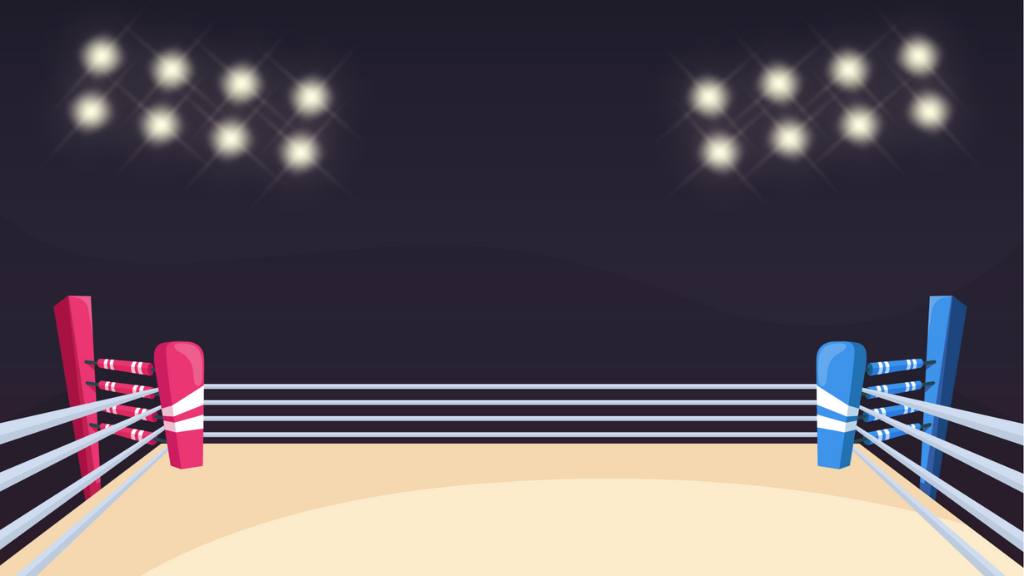
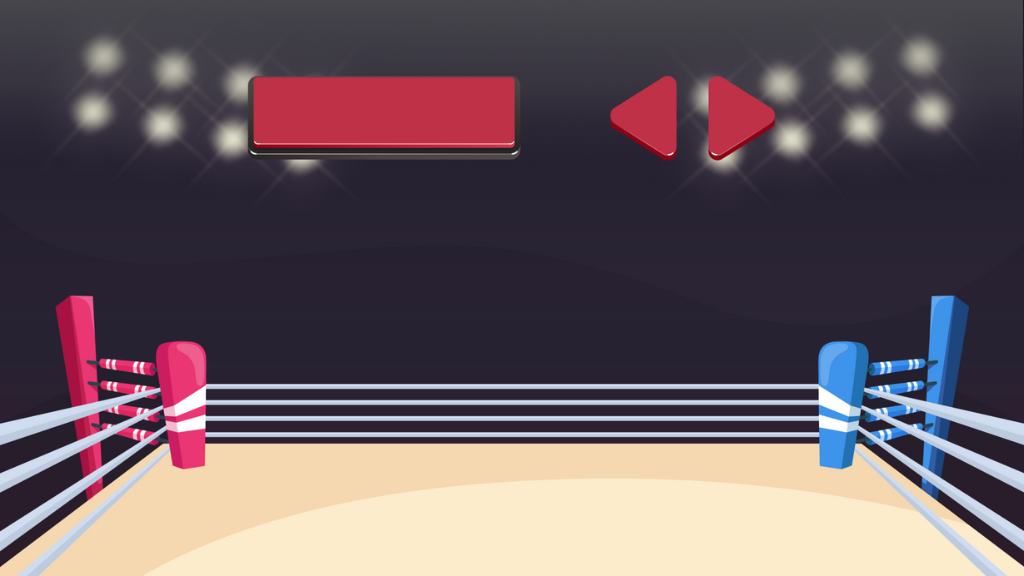
Fixes

diff --git a/website/index.js b/website/index.js
@@ -1,19 +1,38 @@
 //const canvas = document.querySelector('canvas')
 const canvas = document.createElement('canvas');
+let gameEnded = false;
+let gameInit = true;
+
+gsap.ticker.fps(60); // Set target frame rate to 60 FPS
 
 
-const playNowButton = document.querySelector('.play-now-2'); // Adjust if the class name for the button is different
-playNowButton.addEventListener('click', function() {
+let gameInfoElement = null;
+
+
+const playNowButton = document.querySelector('.play-now'); // Adjust if the class name for the button is different
+const gameReset = () => {
+
+    console.log(gameInit, gameEnded, player.health, enemy.health)
+
+    if (!gameInit && (!gameEnded && player.health > 0 && enemy.health > 0)) {
+        // Game is still in progress, do not reset
+        console.log("Game is still in progress, do not reset")
+        return;
+    }
+
     const playNowDiv = document.querySelector('.play-now'); // This is the container where the game will be displayed
     const gameInfo = document.querySelector('.gameInfo');
+
+    // Store a reference to the gameInfo element
+    if (!gameInfoElement) {
+        gameInfoElement = gameInfo.cloneNode(true);
+    }
 
     playNowDiv.innerHTML = ''; // Clear existing content
 
     // Show the game info (health bars and timer)
-    gameInfo.style.display = 'inline-block'; // Or "block", depending on your layout
-
-    playNowDiv.appendChild(gameInfo); // Add the canvas to the div
-
+    gameInfoElement.style.display = 'inline-block'; // Or "block", depending on your layout
+    playNowDiv.appendChild(gameInfoElement); // Add the gameInfo element back to the div
     playNowDiv.appendChild(canvas); // Add the canvas to the div
 
     // Call any initialization functions for your game here, if necessary
@@ -21,9 +40,33 @@ playNowButton.addEventListener('click', function() {
     canvas.width = 1024; // Set canvas width
     canvas.height = 576; // Set canvas height
 
+    // Reset player and enemy health
+    player.health = 100;
+    enemy.health = 100;
+    document.querySelector('#playerHealth').style.width = '100%';
+    document.querySelector('#enemyHealth').style.width = '100%';
+    document.querySelector('#displayText').style.display = 'none';
+
+    // Reset player and enemy state
+    player.dead = false;
+    enemy.dead = false;
+    player.isAttacking = false;
+    enemy.isAttacking = false;
+    player.framesCurrent = 0;
+    enemy.framesCurrent = 0;
+
+    // Reset player and enemy sprites to their idle state
+    player.switchSprite('run');
+    enemy.switchSprite('run');
+
+    // Reset player and enemy positions
+    player.position = { x: canvas.width / 4, y: 0 };
+    enemy.position = { x: 400, y: 100 };
 
     animate(); // Start the game animation or any initialization function
-});
+};
+
+playNowButton.addEventListener('click', gameReset);
 
 const c = canvas.getContext('2d')
 const startSound = new Audio('./static/audio/boxing_ring.wav');
@@ -32,6 +75,10 @@ const hitSounds = [
     new Audio('./static/audio/10.ogg'),
     new Audio('./static/audio/11.ogg')
 ];
+
+const playAgainImage = new Image();
+playAgainImage.src = './static/img/play-again.png';
+
 let currentHitSoundIndex = 0;
 
 canvas.width = 1024
@@ -96,7 +143,11 @@ const player = new Fighter({
             framesMax: 2
         },
         attack1: {
-            imageSrc: './static/img/zerto/Attack1.png',
+            imageSrc: './static/img/zerto/Uppercut.png',
+            framesMax: 6
+        },
+        attack2: {
+            imageSrc: './static/img/zerto/Attack2.png',
             framesMax: 4
         },
         takeHit: {
@@ -105,6 +156,10 @@ const player = new Fighter({
         },
         death: {
             imageSrc: './static/img/zerto/Death.png',
+            framesMax: 6
+        },
+        uppercut: {
+            imageSrc: './static/img/zerto/Uppercut.png',
             framesMax: 6
         }
     },
@@ -156,12 +211,20 @@ const enemy = new Fighter({
             imageSrc: './static/img/kenji/Attack1.png',
             framesMax: 4
         },
+        attack2: {
+            imageSrc: './static/img/kenji/Attack2.png',
+            framesMax: 4
+        },
         takeHit: {
             imageSrc: './static/img/kenji/Take Hit.png',
             framesMax: 4
         },
         death: {
             imageSrc: './static/img/kenji/Death.png',
+            framesMax: 6
+        },
+        uppercut: {
+            imageSrc: './static/img/kenji/Uppercut.png',
             framesMax: 6
         }
     },
@@ -194,6 +257,7 @@ const keys = {
 decreaseTimer()
 
 function animate() {
+    gameInit = false
     startSound.play();
     enemyAI();
     window.requestAnimationFrame(animate)
@@ -212,10 +276,10 @@ function animate() {
 
     // player movement
 
-    if (keys.a.pressed && player.lastKey === 'a') {
+    if (keys.a.pressed && player.lastKey === 'ArrowLeft') {
         player.velocity.x = -5
         player.switchSprite('run')
-    } else if (keys.d.pressed && player.lastKey === 'd') {
+    } else if (keys.d.pressed && player.lastKey === 'ArrowRight') {
         player.velocity.x = 5
         player.switchSprite('run')
     } else {
@@ -278,7 +342,10 @@ function animate() {
 
     // end game based on health
     if (enemy.health <= 0 || player.health <= 0) {
-        determineWinner({ player, enemy, timerId })
+        if (!gameEnded) {
+            gameEnded = true
+            determineWinner({ player, enemy, timerId })
+        }
     }
 }
 
@@ -299,76 +366,81 @@ window.addEventListener('keydown', function(event) {
 window.addEventListener('keydown', (event) => {
     if (!player.dead) {
         switch (event.key) {
-            case 'd':
-                keys.d.pressed = true
-                player.lastKey = 'd'
-                break
-            case 'a':
-                keys.a.pressed = true
-                player.lastKey = 'a'
-                break
-            case 'w':
-                player.velocity.y = -20
-                break
-            case ' ':
-                player.attack()
-                break
+            case 'ArrowRight':
+                keys.d.pressed = true;
+                player.lastKey = 'ArrowRight';
+                break;
+            case 'ArrowLeft':
+                keys.a.pressed = true;
+                player.lastKey = 'ArrowLeft';
+                break;
+            case 'ArrowUp':
+                player.velocity.y = -20;
+                break;
+            case 'A':
+                player.attack();
+                break;
+            case 'S':
+                player.attack2();
+                break;
         }
     }
-})
+});
 
 window.addEventListener('keyup', (event) => {
     switch (event.key) {
-        case 'd':
+        case 'ArrowRight':
             keys.d.pressed = false
             break
-        case 'a':
+        case 'ArrowLeft':
             keys.a.pressed = false
             break
     }
-
-
 })
 
 
 function enemyAI() {
-    const screenCenterX = canvas.width / 2;
-    const enemyDistanceFromCenter = enemy.position.x - screenCenterX;
-    const moveDirection = Math.random() < 0.5 ? -1 : 1; // Randomly choose a direction for minor movements
 
-    // Basic left and right movement logic with slight randomness
-    if (enemyDistanceFromCenter < -50 || Math.random() < 0.1) {
-        enemy.velocity.x = 3 * moveDirection; // Move in random direction when too left or occasionally
-        enemy.switchSprite('run');
-    } else if (enemyDistanceFromCenter > 50 || Math.random() < 0.1) {
-        enemy.velocity.x = -3 * moveDirection; // Move in random direction when too right or occasionally
-        enemy.switchSprite('run');
-    } else {
-        // Introduce a slight chance to move in the opposite direction even when in the center
-        if (Math.random() < 0.05) {
-            enemy.velocity.x = 2 * moveDirection;
+
+    if (!enemy.dead) {
+        const screenCenterX = canvas.width / 2;
+        const enemyDistanceFromCenter = enemy.position.x - screenCenterX;
+        const moveDirection = Math.random() < 0.5 ? -1 : 1; // Randomly choose a direction for minor movements
+
+        // Basic left and right movement logic with slight randomness
+        if (enemyDistanceFromCenter < -50 || Math.random() < 0.1) {
+            enemy.velocity.x = 3 * moveDirection; // Move in random direction when too left or occasionally
+            enemy.switchSprite('run');
+        } else if (enemyDistanceFromCenter > 50 || Math.random() < 0.1) {
+            enemy.velocity.x = -3 * moveDirection; // Move in random direction when too right or occasionally
             enemy.switchSprite('run');
         } else {
-            enemy.velocity.x = 0;
-            enemy.switchSprite('idle');
+            // Introduce a slight chance to move in the opposite direction even when in the center
+            if (Math.random() < 0.05) {
+                enemy.velocity.x = 2 * moveDirection;
+                enemy.switchSprite('run');
+            } else {
+                enemy.velocity.x = 0;
+                enemy.switchSprite('idle');
+            }
         }
-    }
 
-    // Occasionally jump
-    if (Math.random() < 0.02 && enemy.position.y >= canvas.height - 96 - enemy.height) { // Check if on ground
-        enemy.velocity.y = -15; // Trigger jump
-    }
-
-    // Attack logic remains the same
-    if (!enemy.isAttacking && Math.random() < 0.05) {
-        const randomAction = Math.random();
-        if (randomAction < 0.6) {
-            enemy.attack();
+        // Occasionally jump
+        if (Math.random() < 0.02 && enemy.position.y >= canvas.height - 96 - enemy.height) { // Check if on ground
+            enemy.velocity.y = -15; // Trigger jump
         }
-    }
 
-    // Ensure enemy doesn't fall through the ground
-    if (enemy.position.y + enemy.height + enemy.velocity.y >= canvas.height - 96) {
-        enemy.velocity.y = 0;
+        // Attack logic remains the same
+        if (!enemy.isAttacking && Math.random() < 0.05) {
+            const randomAction = Math.random();
+            if (randomAction < 0.6) {
+                enemy.attack();
+            }
+        }
+
+        // Ensure enemy doesn't fall through the ground
+        if (enemy.position.y + enemy.height + enemy.velocity.y >= canvas.height - 96) {
+            enemy.velocity.y = 0;
+        }
     }
 }

diff --git a/website/static/js/classes.js b/website/static/js/classes.js
@@ -131,6 +131,11 @@ class Fighter extends Sprite {
         this.isAttacking = true
     }
 
+    attack2() {
+        this.switchSprite('attack2')
+        this.isAttacking = true
+    }
+
     takeHit() {
         if (this === enemy) {
             this.health -= 10; // Enemy's hits do 10 damage
@@ -156,6 +161,13 @@ class Fighter extends Sprite {
         if (
             this.image === this.sprites.attack1.image &&
             this.framesCurrent < this.sprites.attack1.framesMax - 1
+        )
+            return
+
+        // overriding all other animations with the attack animation
+        if (
+            this.image === this.sprites.attack2.image &&
+            this.framesCurrent < this.sprites.attack2.framesMax - 1
         )
             return
 
@@ -198,7 +210,13 @@ class Fighter extends Sprite {
                     this.framesCurrent = 0
                 }
                 break
-
+            case 'attack2':
+                if (this.image !== this.sprites.attack2.image) {
+                    this.image = this.sprites.attack2.image
+                    this.framesMax = this.sprites.attack2.framesMax
+                    this.framesCurrent = 0
+                }
+                break
             case 'takeHit':
                 if (this.image !== this.sprites.takeHit.image) {
                     this.image = this.sprites.takeHit.image

diff --git a/website/static/js/utils.js b/website/static/js/utils.js
@@ -50,6 +50,23 @@ function determineWinner({ player, enemy, timerId }) {
     } else if (player.health < enemy.health) {
         document.querySelector('#displayText').innerHTML = 'Player 2 Wins'
     }
+
+    setTimeout(showPlayAgainImage, 5000);
+}
+
+function showPlayAgainImage() {
+    const playNowDiv = document.querySelector('.play-now');
+    playNowDiv.innerHTML = ''; // Clear the canvas and game info
+
+    const playAgainImageElement = document.createElement('img');
+    playAgainImageElement.src = playAgainImage.src;
+    playAgainImageElement.classList.add('play-again-btn'); // Add a class to the image element
+    playNowDiv.appendChild(playAgainImageElement);
+
+    // Attach a click event listener to the image element
+    const playAgainBtn = document.querySelector('.play-again-btn');
+    playAgainBtn.addEventListener('click', gameReset);
+
 }
 
 let timer = 60

diff --git a/website/style.css b/website/style.css
@@ -171,7 +171,7 @@
 }
 
 .zerto-landing-page .ZERTO-8 {
-    top: 320px;
+    top: 250px;
     left: 1314px;
     transform: rotate(-183.17deg);
     color: var(--zerto-red);
@@ -231,7 +231,7 @@
 }
 
 .zerto-landing-page .ZERTO-12 {
-    top: 253px;
+    top: 312px;
     left: 63px;
     transform: rotate(-183.19deg);
     color: var(--zerto-red);

diff --git a/website/index.html b/website/index.html
@@ -126,7 +126,6 @@
                         </div>
 
                         <canvas></canvas>
-
                         <div class="game">
                             <div class="overlap-3">
                                 <div class="c">
